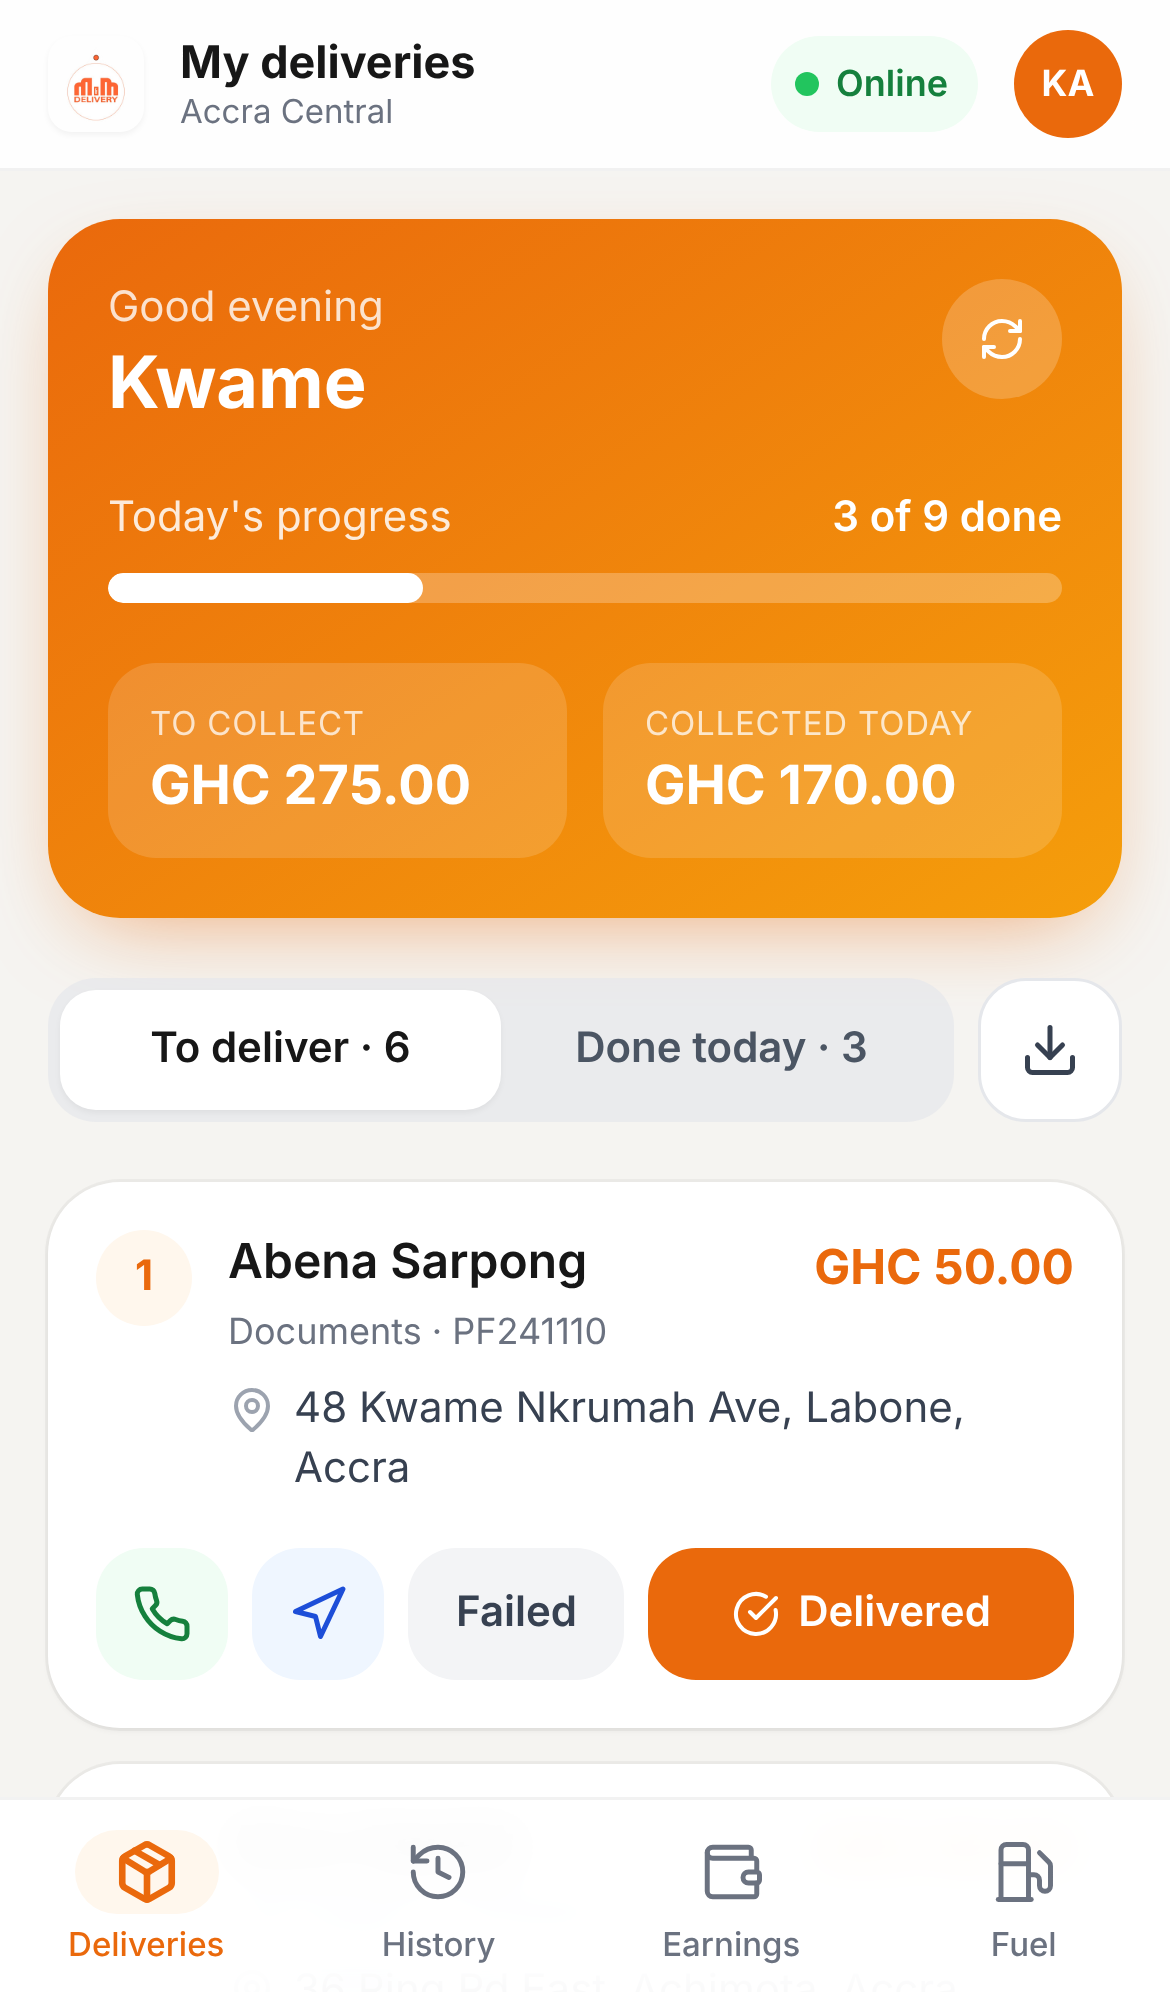
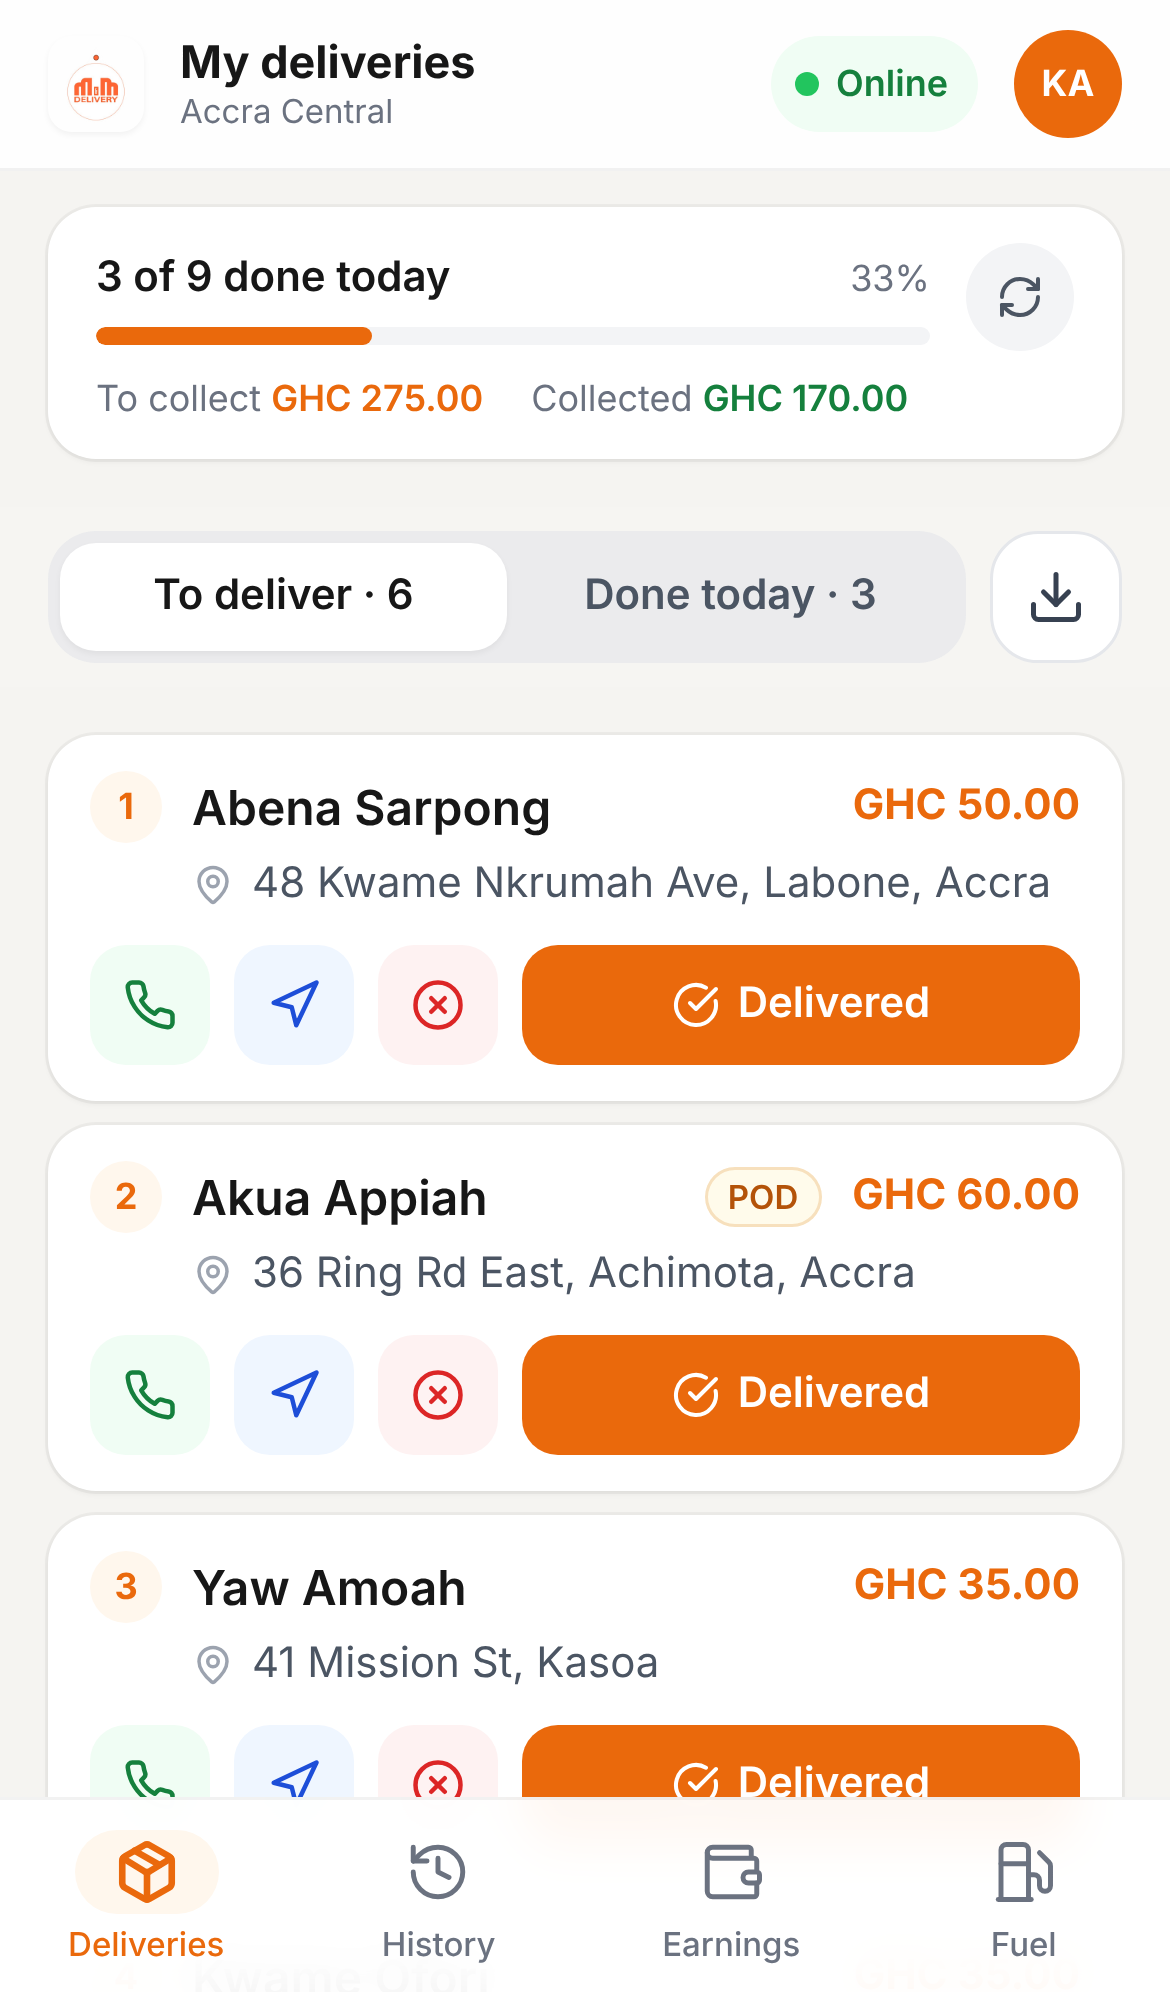
Give the rider delivery list more of the screen
Replace the large summary card with a slim progress strip, pin the
To deliver / Done today tabs under the app bar, and shorten delivery
cards (Failed is now an icon button). Hide the global scroll buttons in
the rider app, where they covered the bottom tab bar.

Claude-Session: https://claude.ai/code/session_01LFKpgJ4YUdgAaptEL6Tn7h

diff --git a/src/screens/RiderDashboard/RiderDashboard.tsx b/src/screens/RiderDashboard/RiderDashboard.tsx
@@ -351,9 +351,6 @@ export const RiderDashboard = (): JSX.Element => {
         }
     };
 
-    const hour = new Date().getHours();
-    const greeting = hour < 12 ? "Good morning" : hour < 17 ? "Good afternoon" : "Good evening";
-
     const todayStart = new Date();
     todayStart.setHours(0, 0, 0, 0);
 
@@ -391,69 +388,59 @@ export const RiderDashboard = (): JSX.Element => {
     const failureReady = !!selectedFailureReason && (selectedFailureReason !== "Other" || !!failureReason.trim());
 
     return (
-        <div className="space-y-5">
-            {/* Summary card */}
-            <section className="rounded-3xl bg-gradient-to-br from-[#ea690c] to-[#f59e0b] text-white p-5 shadow-[0_10px_30px_-12px_rgba(234,105,12,0.6)]">
-                <div className="flex items-start justify-between gap-3">
-                    <div className="min-w-0">
-                        <p className="text-sm text-white/80">{greeting}</p>
-                        <h1 className="text-2xl font-bold leading-tight truncate">{currentUser?.name?.split(" ")[0] || "Rider"}</h1>
+        <div className="space-y-4">
+            {/* Today at a glance: kept slim so the delivery list gets the screen */}
+            <section className="rounded-2xl bg-white px-4 py-3 shadow-sm ring-1 ring-black/[0.04]">
+                <div className="flex items-center gap-3">
+                    <div className="min-w-0 flex-1">
+                        <div className="flex items-baseline justify-between text-sm">
+                            <span className="font-semibold">{todayDelivered} of {todayTotal} done today</span>
+                            <span className="text-xs text-gray-500">{progressPct}%</span>
+                        </div>
+                        <div className="mt-1.5 h-1.5 rounded-full bg-gray-100 overflow-hidden">
+                            <div className="h-full rounded-full bg-[#ea690c] transition-all duration-500" style={{ width: `${progressPct}%` }} />
+                        </div>
                     </div>
                     <button
                         onClick={() => fetchAssignments(pagination.page, pagination.size)}
                         disabled={loading}
-                        className="h-10 w-10 shrink-0 rounded-full bg-white/20 flex items-center justify-center active:scale-95 disabled:opacity-60"
+                        className="h-9 w-9 shrink-0 rounded-full bg-gray-100 text-gray-600 flex items-center justify-center active:scale-95 disabled:opacity-60"
                         aria-label="Refresh"
                     >
                         <RefreshCw className={`w-4 h-4 ${loading ? "animate-spin" : ""}`} />
                     </button>
                 </div>
-
-                <div className="mt-5">
-                    <div className="flex items-baseline justify-between text-sm">
-                        <span className="text-white/85">Today's progress</span>
-                        <span className="font-semibold">{todayDelivered} of {todayTotal} done</span>
-                    </div>
-                    <div className="mt-2 h-2.5 rounded-full bg-white/25 overflow-hidden">
-                        <div className="h-full rounded-full bg-white transition-all duration-500" style={{ width: `${progressPct}%` }} />
-                    </div>
-                </div>
-
-                <div className="mt-5 grid grid-cols-2 gap-3">
-                    <div className="rounded-2xl bg-white/15 px-3.5 py-3">
-                        <p className="text-[11px] uppercase tracking-wide text-white/75">To collect</p>
-                        <p className="text-lg font-bold leading-tight mt-0.5">{formatCurrency(totalAmountToCollect)}</p>
-                    </div>
-                    <div className="rounded-2xl bg-white/15 px-3.5 py-3">
-                        <p className="text-[11px] uppercase tracking-wide text-white/75">Collected today</p>
-                        <p className="text-lg font-bold leading-tight mt-0.5">{formatCurrency(todayCollected)}</p>
-                    </div>
+                <div className="mt-2 flex flex-wrap gap-x-4 gap-y-1 text-xs text-gray-500">
+                    <span className="whitespace-nowrap">To collect <strong className="text-[#ea690c] font-semibold">{formatCurrency(totalAmountToCollect)}</strong></span>
+                    <span className="whitespace-nowrap">Collected <strong className="text-green-700 font-semibold">{formatCurrency(todayCollected)}</strong></span>
                 </div>
             </section>
 
-            {/* Segmented control */}
-            <div className="flex items-center gap-2">
-                <div className="flex-1 grid grid-cols-2 p-1 rounded-2xl bg-gray-200/70">
-                    {([["active", `To deliver · ${activeAssignments.length}`], ["done", `Done today · ${doneToday.length}`]] as const).map(([key, label]) => (
+            {/* Tabs stay pinned under the app bar while the list scrolls */}
+            <div className="sticky top-[calc(3.5rem+env(safe-area-inset-top))] z-30 -mx-4 px-4 py-2 -my-2 bg-[#f5f4f1]/95 backdrop-blur">
+                <div className="flex items-center gap-2">
+                    <div className="flex-1 grid grid-cols-2 p-1 rounded-2xl bg-gray-200/70">
+                        {([["active", `To deliver · ${activeAssignments.length}`], ["done", `Done today · ${doneToday.length}`]] as const).map(([key, label]) => (
+                            <button
+                                key={key}
+                                onClick={() => setTab(key)}
+                                className={`h-9 rounded-xl text-sm font-semibold transition ${tab === key ? "bg-white text-neutral-900 shadow-sm" : "text-gray-600"}`}
+                            >
+                                {label}
+                            </button>
+                        ))}
+                    </div>
+                    {activeAssignments.length > 0 && (
                         <button
-                            key={key}
-                            onClick={() => setTab(key)}
-                            className={`h-10 rounded-xl text-sm font-semibold transition ${tab === key ? "bg-white text-neutral-900 shadow-sm" : "text-gray-600"}`}
+                            onClick={handleDownloadPDF}
+                            className="h-11 w-11 shrink-0 rounded-2xl bg-white border border-gray-200 text-gray-700 flex items-center justify-center active:scale-95"
+                            aria-label="Download route sheet"
+                            title="Download route sheet (PDF)"
                         >
-                            {label}
+                            <Download className="w-5 h-5" />
                         </button>
-                    ))}
+                    )}
                 </div>
-                {activeAssignments.length > 0 && (
-                    <button
-                        onClick={handleDownloadPDF}
-                        className="h-12 w-12 shrink-0 rounded-2xl bg-white border border-gray-200 text-gray-700 flex items-center justify-center active:scale-95"
-                        aria-label="Download route sheet"
-                        title="Download route sheet (PDF)"
-                    >
-                        <Download className="w-5 h-5" />
-                    </button>
-                )}
             </div>
 
             {loading && assignments.length === 0 ? (
@@ -462,55 +449,48 @@ export const RiderDashboard = (): JSX.Element => {
                 activeAssignments.length === 0 ? (
                     <EmptyState icon={<PackageIcon className="w-8 h-8" />} title="No deliveries right now" hint="New assignments will show up here." />
                 ) : (
-                    <ul className="space-y-3">
+                    <ul className="space-y-2">
                         {activeAssignments.map((a, i) => {
                             const p = a.parcel;
                             return (
                                 <li key={`${a.assignmentId}-${p.parcelId}`}>
                                     <article
                                         onClick={() => openDetails(a)}
-                                        className="rounded-3xl bg-white p-4 shadow-sm ring-1 ring-black/[0.04] active:bg-gray-50 cursor-pointer"
+                                        className="rounded-2xl bg-white px-3.5 py-3 shadow-sm ring-1 ring-black/[0.04] active:bg-gray-50 cursor-pointer"
                                     >
-                                        <div className="flex items-start gap-3">
-                                            <span className="h-8 w-8 shrink-0 rounded-full bg-orange-50 text-[#ea690c] text-sm font-bold flex items-center justify-center">
+                                        <div className="flex items-center gap-2.5">
+                                            <span className="h-6 w-6 shrink-0 rounded-full bg-orange-50 text-[#ea690c] text-xs font-bold flex items-center justify-center">
                                                 {i + 1}
                                             </span>
-                                            <div className="min-w-0 flex-1">
-                                                <div className="flex items-start justify-between gap-2">
-                                                    <h3 className="font-semibold leading-tight truncate">{p.receiverName || "Unknown recipient"}</h3>
-                                                    <span className="shrink-0 font-bold text-[#ea690c]">{formatCurrency(parcelTotal(p))}</span>
-                                                </div>
-                                                <p className="text-xs text-gray-500 mt-0.5 truncate">{p.parcelDescription || "Parcel"} · {p.parcelId}</p>
-                                                <p className="flex items-start gap-1.5 text-sm text-gray-700 mt-2">
-                                                    <MapPinIcon className="w-4 h-4 mt-0.5 shrink-0 text-gray-400" />
-                                                    <span className="line-clamp-2">{p.receiverAddress || "No address given"}</span>
-                                                </p>
-                                                {(p.pod || p.fragile) && (
-                                                    <div className="flex gap-1.5 mt-2">
-                                                        {p.pod && <StatusPill tone="pending">Pay on delivery</StatusPill>}
-                                                        {p.fragile && <StatusPill tone="returned">Fragile</StatusPill>}
-                                                    </div>
-                                                )}
-                                            </div>
+                                            <h3 className="min-w-0 flex-1 font-semibold truncate">{p.receiverName || "Unknown recipient"}</h3>
+                                            {p.pod && <StatusPill tone="pending">POD</StatusPill>}
+                                            {p.fragile && <StatusPill tone="returned">Fragile</StatusPill>}
+                                            <span className="shrink-0 font-bold text-[#ea690c] text-sm">{formatCurrency(parcelTotal(p))}</span>
                                         </div>
+                                        <p className="flex items-center gap-1.5 text-sm text-gray-600 mt-1 pl-[34px]">
+                                            <MapPinIcon className="w-3.5 h-3.5 shrink-0 text-gray-400" />
+                                            <span className="truncate">{p.receiverAddress || "No address given"}</span>
+                                        </p>
 
-                                        <div className="flex items-center gap-2 mt-4">
+                                        <div className="flex items-center gap-2 mt-2.5">
                                             <IconAction href={telHref(p.recieverPhoneNumber)} label="Call recipient" tone="green">
-                                                <Phone className="w-5 h-5" />
+                                                <Phone className="w-[18px] h-[18px]" />
                                             </IconAction>
                                             <IconAction href={mapsHref(p.receiverAddress)} label="Directions" tone="blue">
-                                                <Navigation className="w-5 h-5" />
+                                                <Navigation className="w-[18px] h-[18px]" />
                                             </IconAction>
                                             <button
                                                 onClick={(e) => { e.stopPropagation(); startFailed(a); }}
-                                                className="h-11 px-4 rounded-2xl bg-gray-100 text-gray-700 text-sm font-semibold active:scale-95"
+                                                className="h-10 w-10 shrink-0 rounded-xl bg-red-50 text-red-600 flex items-center justify-center active:scale-95"
+                                                aria-label="Delivery failed"
+                                                title="Delivery failed"
                                             >
-                                                Failed
+                                                <XCircleIcon className="w-[18px] h-[18px]" />
                                             </button>
                                             <button
                                                 onClick={(e) => { e.stopPropagation(); startDelivered(a); }}
                                                 disabled={updatingAssignment === a.assignmentId}
-                                                className="h-11 flex-1 rounded-2xl bg-[#ea690c] text-white text-sm font-semibold flex items-center justify-center gap-1.5 active:scale-[0.98] disabled:opacity-60"
+                                                className="h-10 flex-1 rounded-xl bg-[#ea690c] text-white text-sm font-semibold flex items-center justify-center gap-1.5 active:scale-[0.98] disabled:opacity-60"
                                             >
                                                 <CheckCircleIcon className="w-4 h-4" /> Delivered
                                             </button>

diff --git a/src/components/ScrollController.tsx b/src/components/ScrollController.tsx
@@ -1,7 +1,9 @@
 import { useState, useEffect, useCallback } from "react";
 import { ChevronUp, ChevronDown } from "lucide-react";
+import { useLocation } from "react-router-dom";
 
 export const ScrollController = () => {
+    const { pathname } = useLocation();
     const [scrollY, setScrollY] = useState(0);
     const [docHeight, setDocHeight] = useState(0);
 
@@ -23,8 +25,9 @@ export const ScrollController = () => {
     const atTop = scrollY <= 10;
     const atBottom = docHeight > 0 && scrollY >= docHeight - 10;
 
-    // Hide when page isn't scrollable
-    if (docHeight < 100) return null;
+    // Hide when page isn't scrollable, and in the rider app, where riders
+    // scroll by touch and the buttons would cover the bottom tab bar.
+    if (docHeight < 100 || pathname.startsWith("/rider")) return null;
 
     return (
         <div className="fixed bottom-6 right-5 z-50 flex flex-col gap-1.5">

diff --git a/src/components/rider/RiderUI.tsx b/src/components/rider/RiderUI.tsx
@@ -113,7 +113,7 @@ export const IconAction = ({ href, label, children, tone = "gray" }: { href?: st
             rel="noreferrer"
             aria-label={label}
             onClick={(e) => e.stopPropagation()}
-            className={`h-11 w-11 shrink-0 rounded-2xl flex items-center justify-center active:scale-95 transition ${tones[tone]} ${href ? "" : "opacity-40 pointer-events-none"}`}
+            className={`h-10 w-10 shrink-0 rounded-xl flex items-center justify-center active:scale-95 transition ${tones[tone]} ${href ? "" : "opacity-40 pointer-events-none"}`}
         >
             {children}
         </a>

diff --git a/src/layouts/RiderLayout.tsx b/src/layouts/RiderLayout.tsx
@@ -110,7 +110,7 @@ export const RiderLayout: React.FC<RiderLayoutProps> = ({ children }) => {
                 </div>
             </header>
 
-            <main className="mx-auto max-w-md sm:max-w-xl lg:max-w-3xl px-4 pt-4 pb-[calc(env(safe-area-inset-bottom)+6rem)] lg:pb-10">
+            <main className="mx-auto max-w-md sm:max-w-xl lg:max-w-3xl px-4 pt-3 pb-[calc(env(safe-area-inset-bottom)+6rem)] lg:pb-10">
                 {children}
             </main>
 
